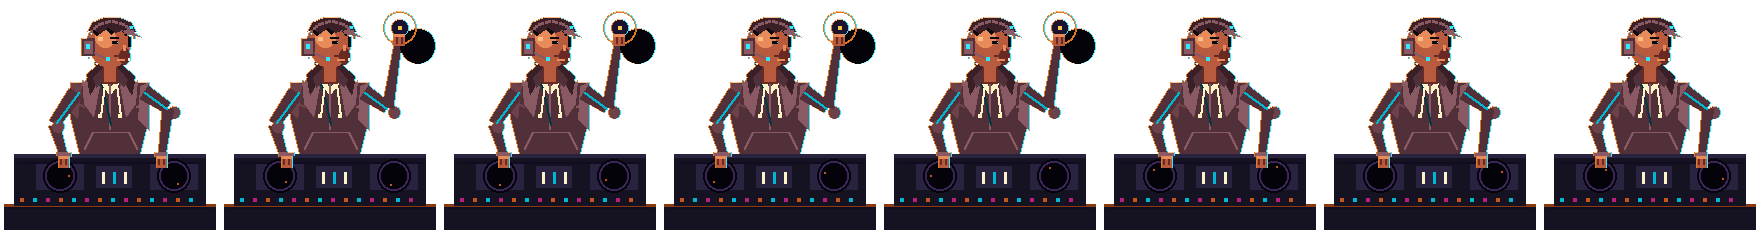
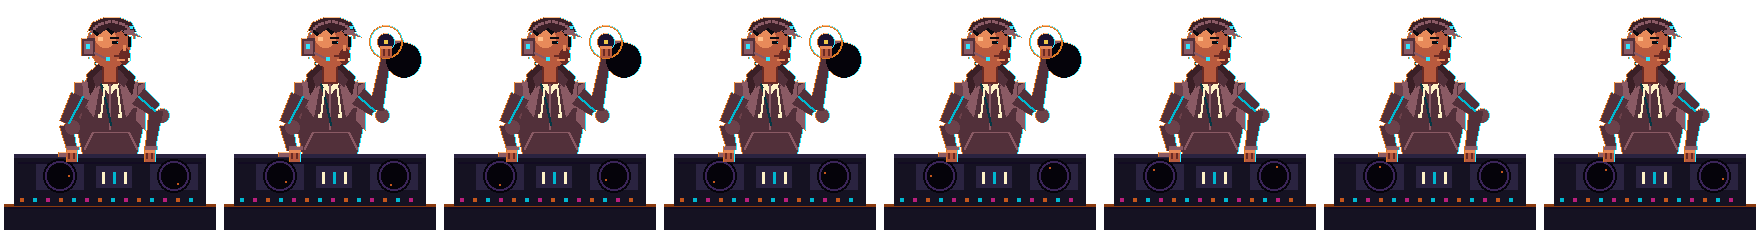
fix(accueil) : un DJ du dock, bras courts et épais

diff --git a/tools/sprites/accueil.ts b/tools/sprites/accueil.ts
@@ -485,62 +485,62 @@ function djFrame(frame: number): Canvas {
   polygon(
     human,
     [
-      [70, 82],
-      [150, 82],
-      [141, 154],
-      [79, 154],
+      [74, 82],
+      [146, 82],
+      [138, 154],
+      [82, 154],
     ],
     slot('hood'),
   );
   polygon(
     human,
     [
-      [96, 82],
-      [124, 82],
-      [120, 132],
-      [100, 132],
+      [99, 82],
+      [121, 82],
+      [118, 132],
+      [102, 132],
     ],
     slot('hood'),
   );
   polygon(
     human,
     [
-      [70, 82],
+      [74, 82],
       [99, 84],
       [96, 132],
-      [79, 154],
-      [70, 118],
+      [82, 154],
+      [74, 118],
     ],
     slot('hood'),
   );
   polygon(
     human,
     [
-      [150, 82],
+      [146, 82],
       [121, 84],
       [120, 132],
-      [141, 154],
-      [150, 118],
+      [138, 154],
+      [146, 118],
     ],
     slot('hood'),
   );
   polygon(
     human,
     [
-      [70, 82],
-      [82, 84],
-      [78, 120],
-      [70, 112],
+      [74, 82],
+      [85, 84],
+      [81, 120],
+      [74, 112],
     ],
     slot('hoodLight'),
   );
   polygon(
     human,
     [
-      [150, 82],
-      [140, 86],
-      [138, 120],
-      [150, 132],
+      [146, 82],
+      [138, 86],
+      [136, 120],
+      [146, 132],
     ],
     slot('hoodEdge'),
   );
@@ -600,8 +600,8 @@ function djFrame(frame: number): Canvas {
   human.hline(92, 132, 36, slot('hoodEdge'));
   human.line(92, 132, 84, 148, slot('hoodEdge'), 2);
   human.line(128, 132, 136, 148, slot('hoodEdge'), 2);
-  human.line(70, 100, 84, 106, slot('hoodLight'), 2);
-  human.line(150, 100, 136, 106, slot('hoodEdge'), 2);
+  human.line(74, 100, 86, 106, slot('hoodLight'), 2);
+  human.line(146, 100, 134, 106, slot('hoodEdge'), 2);
   human.line(94, 62, 104, 96, slot('cyanDeep'), 2);
   human.line(104, 96, 110, 124, slot('cyanDeep'), 2);
   human.line(104, 84, 100, 116, slot('cream'), 2);
@@ -737,41 +737,41 @@ function djFrame(frame: number): Canvas {
   human.fill(106, 57, 4, 4, slot('neonCyan'));
 
   // Left arm, hand scratching the deck.
-  segment(human, 76, 92, 54, 124, 17, 13, slot('hood'));
-  segment(human, 54, 124, 64, 156, 13, 9, slot('hood'));
-  human.ellipse(52, 120, 13, 13, slot('hoodLight'));
+  segment(human, 80, 96, 66, 124, 20, 15, slot('hood'));
+  segment(human, 66, 124, 72, 150, 15, 11, slot('hood'));
+  human.ellipse(65, 120, 15, 15, slot('hoodLight'));
   human.fill(58, 152, 14, 5, slot('hoodEdge'));
-  human.fill(56 + scratch, 152, 16, 4, slot('hoodEdge'));
-  human.fill(58 + scratch, 156, 12, 12, slot('skin'));
-  human.fill(58 + scratch, 156, 12, 3, slot('skinLight'));
-  human.fill(60 + scratch, 159, 2, 6, slot('skinDeep'));
-  human.fill(65 + scratch, 159, 2, 6, slot('skinDeep'));
+  human.fill(66 + scratch, 146, 14, 4, slot('hoodEdge'));
+  human.fill(66 + scratch, 150, 12, 12, slot('skin'));
+  human.fill(66 + scratch, 150, 12, 3, slot('skinLight'));
+  human.fill(68 + scratch, 153, 2, 6, slot('skinDeep'));
+  human.fill(73 + scratch, 153, 2, 6, slot('skinDeep'));
 
   // Right arm: raised with a record, or down on the other deck.
-  segment(human, 144, 92, 168, 108, 17, 13, slot('hood'));
-  human.ellipse(168, 106, 13, 13, slot('hoodLight'));
+  segment(human, 138, 96, 156, 110, 20, 15, slot('hood'));
+  human.ellipse(155, 108, 15, 15, slot('hoodLight'));
   if (raised) {
-    segment(human, 168, 108, 178, 44, 13, 9, slot('hood'));
+    segment(human, 156, 110, 166, 58, 15, 11, slot('hood'));
     human.fill(172, 40, 12, 5, slot('hoodEdge'));
-    human.ellipse(180, 28, 36, 36, slot('ink'));
-    ring(human, 180, 28, 17, 2, slot('sodium'));
-    human.ellipse(171, 19, 18, 18, slot('violet'));
-    ring(human, 180, 28, 9, 1, slot('neonCyan'));
-    human.fill(178, 26, 4, 4, slot('yellow'));
-    human.fill(173, 34, 12, 12, slot('skin'));
-    human.fill(173, 34, 12, 3, slot('skinLight'));
-    human.fill(176, 37, 2, 7, slot('skinDeep'));
-    human.fill(181, 37, 2, 7, slot('skinDeep'));
+    human.ellipse(166, 42, 36, 36, slot('ink'));
+    ring(human, 166, 42, 17, 2, slot('sodium'));
+    human.ellipse(157, 33, 18, 18, slot('violet'));
+    ring(human, 166, 42, 9, 1, slot('neonCyan'));
+    human.fill(164, 40, 4, 4, slot('yellow'));
+    human.fill(160, 46, 12, 12, slot('skin'));
+    human.fill(160, 46, 12, 3, slot('skinLight'));
+    human.fill(163, 49, 2, 7, slot('skinDeep'));
+    human.fill(168, 49, 2, 7, slot('skinDeep'));
   } else {
-    segment(human, 168, 108, 162, 156, 13, 9, slot('hood'));
-    human.fill(154, 152, 14, 5, slot('hoodEdge'));
-    human.fill(156, 156, 12, 12, slot('skin'));
-    human.fill(156, 156, 12, 3, slot('skinLight'));
-    human.fill(158, 159, 2, 6, slot('skinDeep'));
-    human.fill(163, 159, 2, 6, slot('skinDeep'));
+    segment(human, 156, 110, 150, 150, 15, 11, slot('hood'));
+    human.fill(144, 146, 14, 4, slot('hoodEdge'));
+    human.fill(144, 150, 12, 12, slot('skin'));
+    human.fill(144, 150, 12, 3, slot('skinLight'));
+    human.fill(146, 153, 2, 6, slot('skinDeep'));
+    human.fill(151, 153, 2, 6, slot('skinDeep'));
   }
-  human.line(78, 92, 56, 122, slot('cyan'), 2);
-  human.line(144, 92, 166, 108, slot('cyan'), 2);
+  human.line(82, 96, 68, 122, slot('cyan'), 2);
+  human.line(138, 96, 154, 110, slot('cyan'), 2);
 
   // A rim light on the figure alone, warm from the spotlight and cyan from the back.
   const rim = new Canvas(DJ_WIDTH, DJ_HEIGHT);
